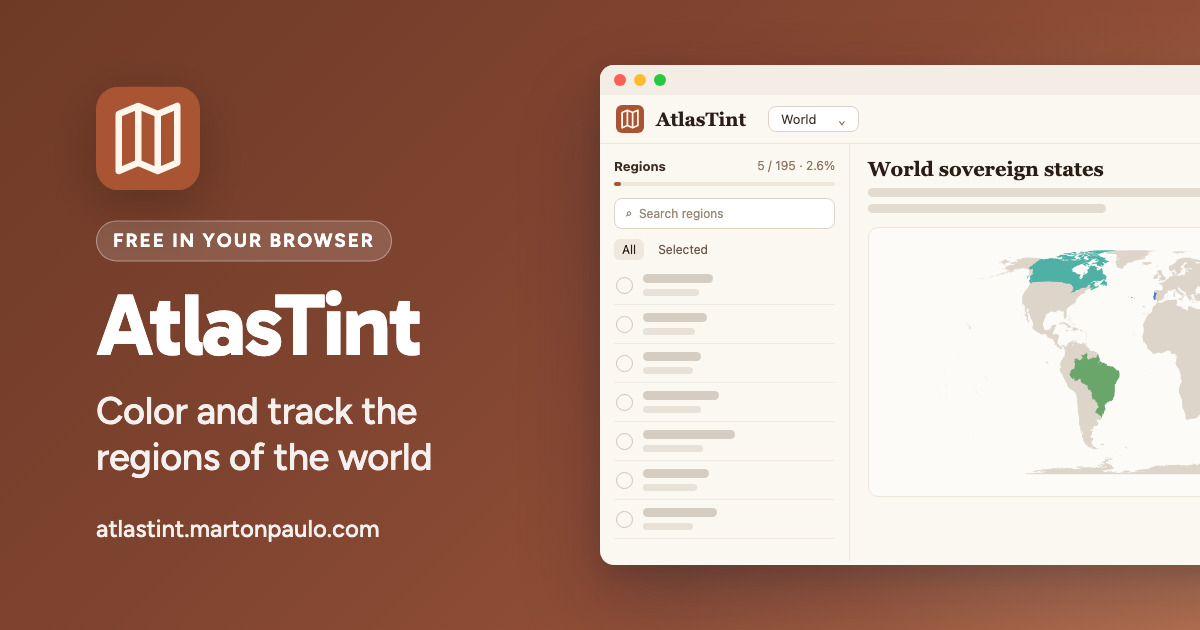
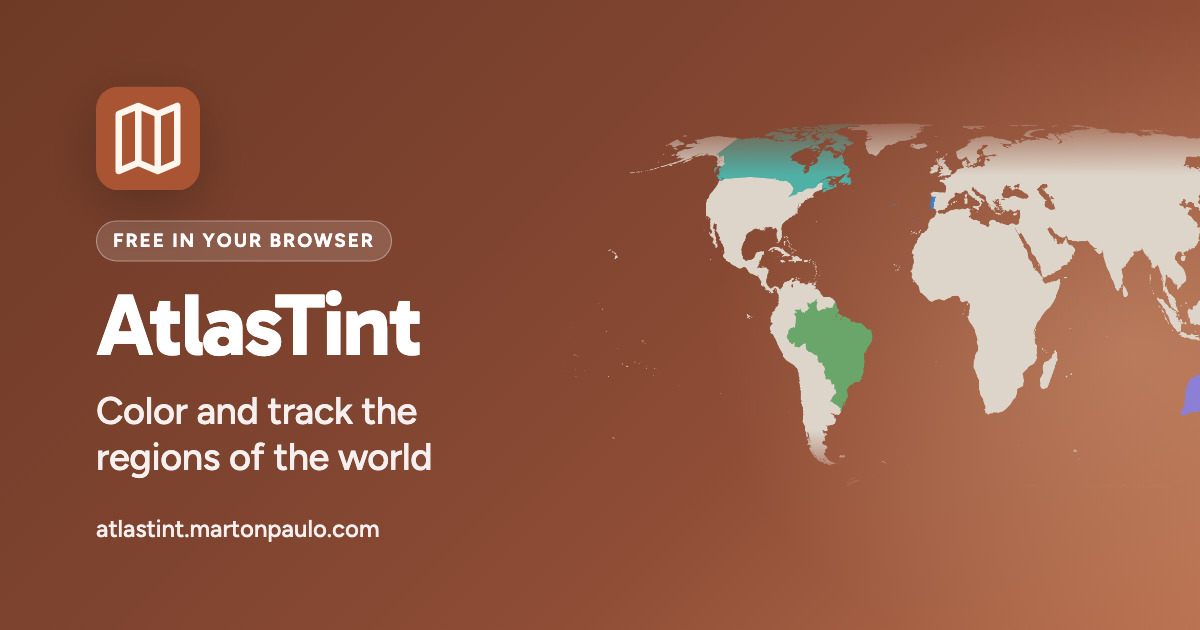
feat: frameless social card
The drawing now floats on the gradient without its container window, the counter
badges and frame lines are gone, and the visual's cut edges fade into the ground
(owner decision, 2026-09-11: a second card pattern for products whose content reads
on its own).

diff --git a/design/social-card/social-card.html b/design/social-card/social-card.html
@@ -1,6 +1,6 @@
 <!doctype html>
 <!-- AtlasTint social card. Source of truth for apps/web/public/social-card.jpg, served at
-     https://atlastint.martonpaulo.com/social-card.jpg (1200x630). Never edit the PNG.
+     https://atlastint.martonpaulo.com/social-card.jpg (1200x630). Never edit the JPEG.
      Render on a Mac (the drawn interface uses the system font): pnpm social-card
      System, grid and contrast rules: the social card standard (skill-deck#261).
      Fonts: Gabarito and Figtree (OFL, fonts/*-OFL.txt), the typefaces of martonpaulo.com. -->
@@ -35,24 +35,9 @@ h1 { margin: 0; font: 700 88px/1 "Gabarito", sans-serif; letter-spacing: -0.03em
 
 .card { --gradient: linear-gradient(135deg,#6e3a26 0%,#7f4430 40%,#8f4d36 65%,#b8704f 100%); --glow: radial-gradient(640px 520px at 94% 55%,rgba(245,200,160,.28),transparent 65%); --ink: #fff; --ink-soft: rgba(255,255,255,.92);
         --pill-bg: rgba(255,255,255,.14); --pill-line: rgba(255,255,255,.38); }
-.app{left:600px;top:50%;transform:translateY(-50%);width:880px;height:500px;border-radius:14px;background:#fbf7f1;overflow:hidden}
-.top{height:30px;display:flex;align-items:center;padding:0 14px;background:#f3ede5}
-.tl{display:flex;gap:8px}.tl i{width:12px;height:12px;border-radius:50%;background:#ff5f57}.tl i:nth-child(2){background:#febc2e}.tl i:nth-child(3){background:#28c840}
-.head{display:flex;align-items:center;gap:12px;padding:10px 16px;border-bottom:1px solid #eee6db}
-.mark{width:28px;height:28px}.word{font:600 19px ui-serif, "New York", Georgia, serif;color:#2a1d15}
-.select{margin-left:10px;border:1px solid #ddd3c6;border-radius:8px;padding:4px 12px;font-size:13px;color:#3a2c22;background:#fff}.select em{font-style:normal;color:#8a7462;margin-left:18px}
-.body{display:flex;height:calc(100% - 83px)}
-aside{width:250px;border-right:1px solid #eee6db;padding:14px;box-sizing:border-box}
-.rh{display:flex;justify-content:space-between;font-size:13px;color:#3a2c22}.rh span{color:#8a7462;font-size:12px}
-.prog{height:4px;border-radius:2px;background:#eee6db;margin:8px 0 12px}.prog i{display:block;width:3%;height:100%;background:#a95432;border-radius:2px}
-.search{border:1px solid #ddd3c6;border-radius:8px;padding:7px 10px;font-size:12px;color:#9a8878;background:#fff}
-.tabs{display:flex;gap:6px;margin:10px 0 6px;font-size:12px;color:#6b5a4c}.tabs span{padding:3px 8px;border-radius:6px}.tabs .on{background:#efe8de;color:#2a1d15}
-.rrow{display:flex;align-items:center;gap:10px;padding:8px 2px;border-bottom:1px solid #f1ebe3}
-.cb{width:15px;height:15px;border-radius:50%;border:1.5px solid #cfc4b6;flex:none}.rt{display:flex;flex-direction:column}
-section{flex:1;padding:14px 18px}
-section h3{margin:0 0 8px;font:600 20px ui-serif, "New York", Georgia, serif;color:#2a1d15}
-.map{margin-top:14px;border:1px solid #eee6db;border-radius:10px;background:#fdfbf8;padding:14px;height:270px;box-sizing:border-box}
-.map img{width:100%;height:100%;object-fit:contain}
+.mapfree{position:absolute;left:560px;top:50%;transform:translateY(-50%);width:780px;
+ -webkit-mask-image:linear-gradient(180deg,transparent 0,#000 16%,#000 78%,transparent 92%),linear-gradient(90deg,transparent 0,#000 6%);-webkit-mask-composite:source-in;
+ mask-image:linear-gradient(180deg,transparent 0,#000 16%,#000 78%,transparent 92%),linear-gradient(90deg,transparent 0,#000 6%);mask-composite:intersect}
 </style>
 <div class="card">
   <div class="copy">
@@ -62,23 +47,5 @@ section h3{margin:0 0 8px;font:600 20px ui-serif, "New York", Georgia, serif;col
     <p class="promise">Color and track the regions of the world</p>
     <p class="domain">atlastint.martonpaulo.com</p>
   </div>
-  <div class="win app ui">
-    <div class="top"><span class="tl"><i></i><i></i><i></i></span></div>
-    <div class="head"><img class="mark" src="../../apps/web/public/favicon.svg" alt=""><span class="word">AtlasTint</span><span class="select">World <em>⌄</em></span></div>
-    <div class="body">
-      <aside>
-        <div class="rh"><b>Regions</b><span>5 / 195 · 2.6%</span></div>
-        <div class="prog"><i></i></div>
-        <div class="search">⌕&nbsp; Search regions</div>
-        <div class="tabs"><span class="on">All</span><span>Selected</span></div>
-        <div class="rrow"><span class="cb"></span><span class="rt"><span class="bar" style="width:70px;height:9px;background:#d6cdc2"></span><span class="bar" style="width:56px;height:7px;margin-top:6px;background:#e8e1d8"></span></span></div><div class="rrow"><span class="cb"></span><span class="rt"><span class="bar" style="width:64px;height:9px;background:#d6cdc2"></span><span class="bar" style="width:52px;height:7px;margin-top:6px;background:#e8e1d8"></span></span></div><div class="rrow"><span class="cb"></span><span class="rt"><span class="bar" style="width:58px;height:9px;background:#d6cdc2"></span><span class="bar" style="width:50px;height:7px;margin-top:6px;background:#e8e1d8"></span></span></div><div class="rrow"><span class="cb"></span><span class="rt"><span class="bar" style="width:76px;height:9px;background:#d6cdc2"></span><span class="bar" style="width:58px;height:7px;margin-top:6px;background:#e8e1d8"></span></span></div><div class="rrow"><span class="cb"></span><span class="rt"><span class="bar" style="width:92px;height:9px;background:#d6cdc2"></span><span class="bar" style="width:60px;height:7px;margin-top:6px;background:#e8e1d8"></span></span></div><div class="rrow"><span class="cb"></span><span class="rt"><span class="bar" style="width:66px;height:9px;background:#d6cdc2"></span><span class="bar" style="width:54px;height:7px;margin-top:6px;background:#e8e1d8"></span></span></div><div class="rrow"><span class="cb"></span><span class="rt"><span class="bar" style="width:74px;height:9px;background:#d6cdc2"></span><span class="bar" style="width:50px;height:7px;margin-top:6px;background:#e8e1d8"></span></span></div>
-      </aside>
-      <section>
-        <h3>World sovereign states</h3>
-        <span class="bar" style="display:block;width:78%;height:9px;background:#e3dbd0"></span>
-        <span class="bar" style="display:block;width:40%;height:9px;margin-top:7px;background:#e3dbd0"></span>
-        <div class="map"><img src="world.png" alt=""></div>
-      </section>
-    </div>
-  </div>
+  <img class="mapfree" src="world.png" alt="">
 </div>
